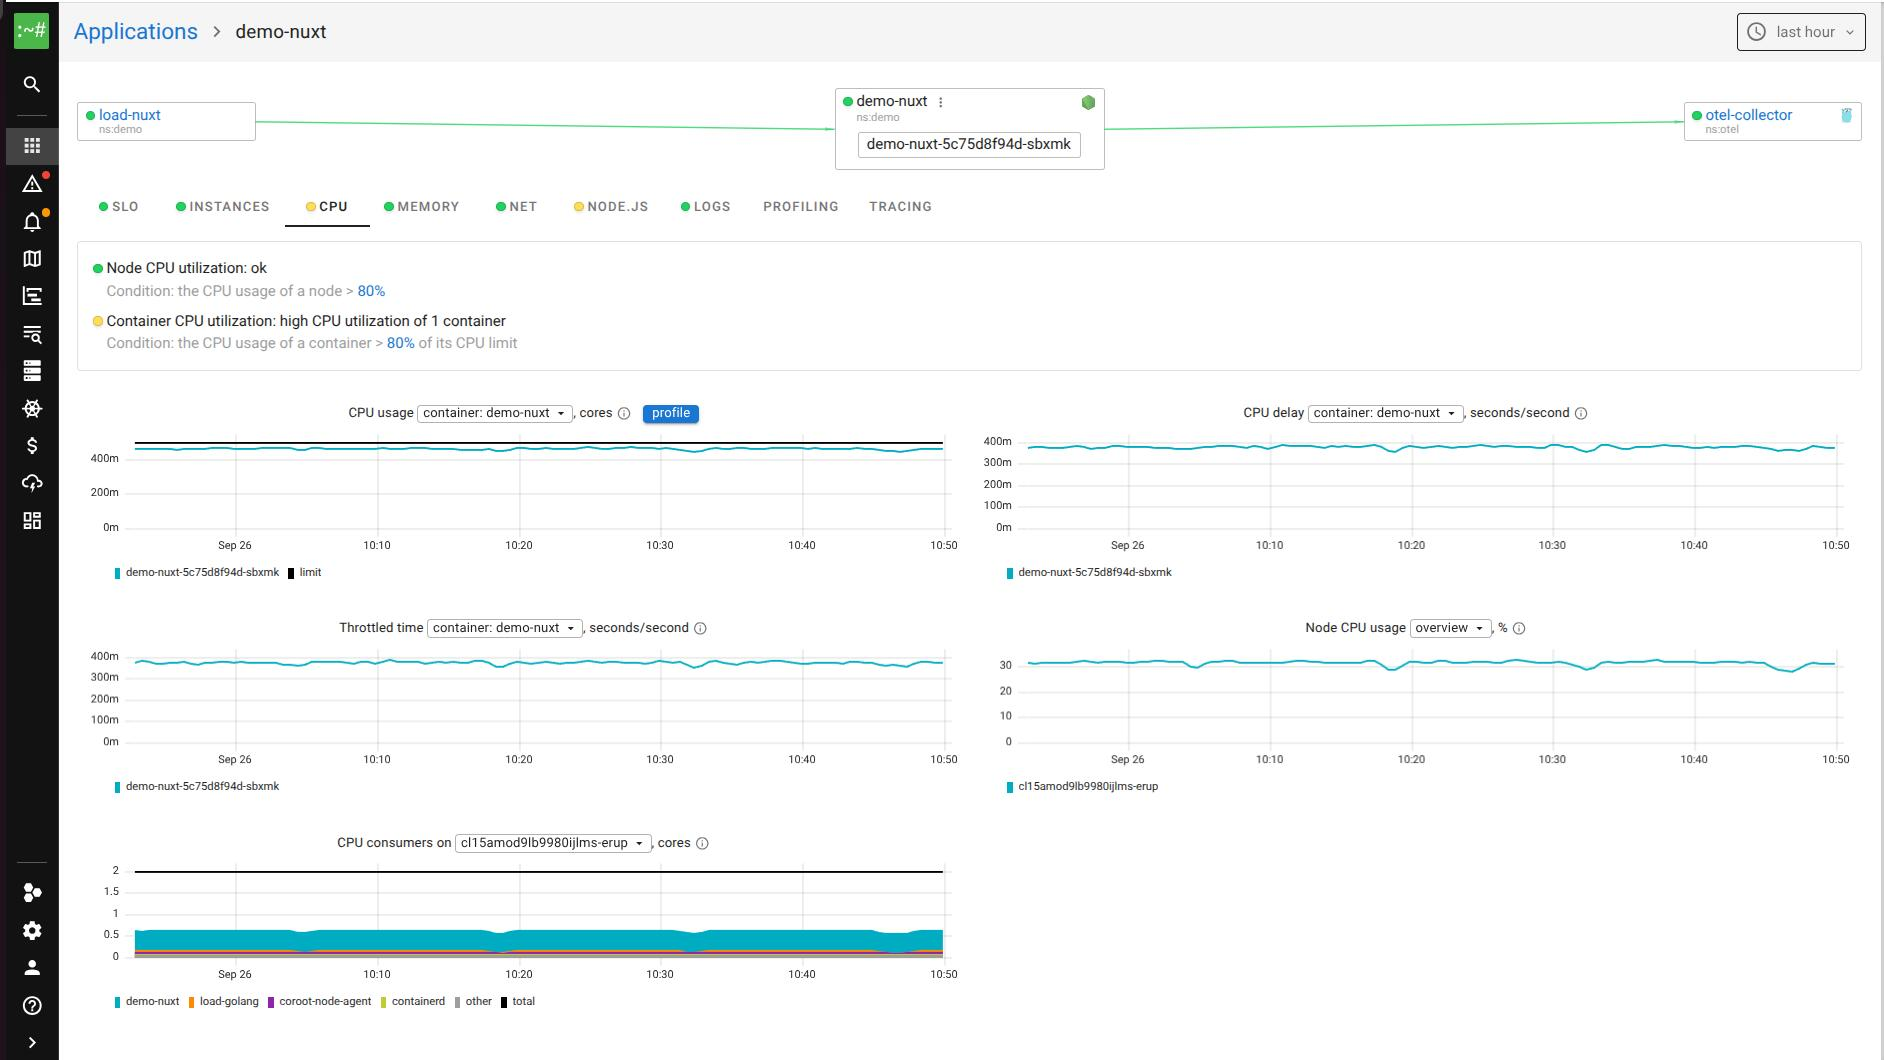
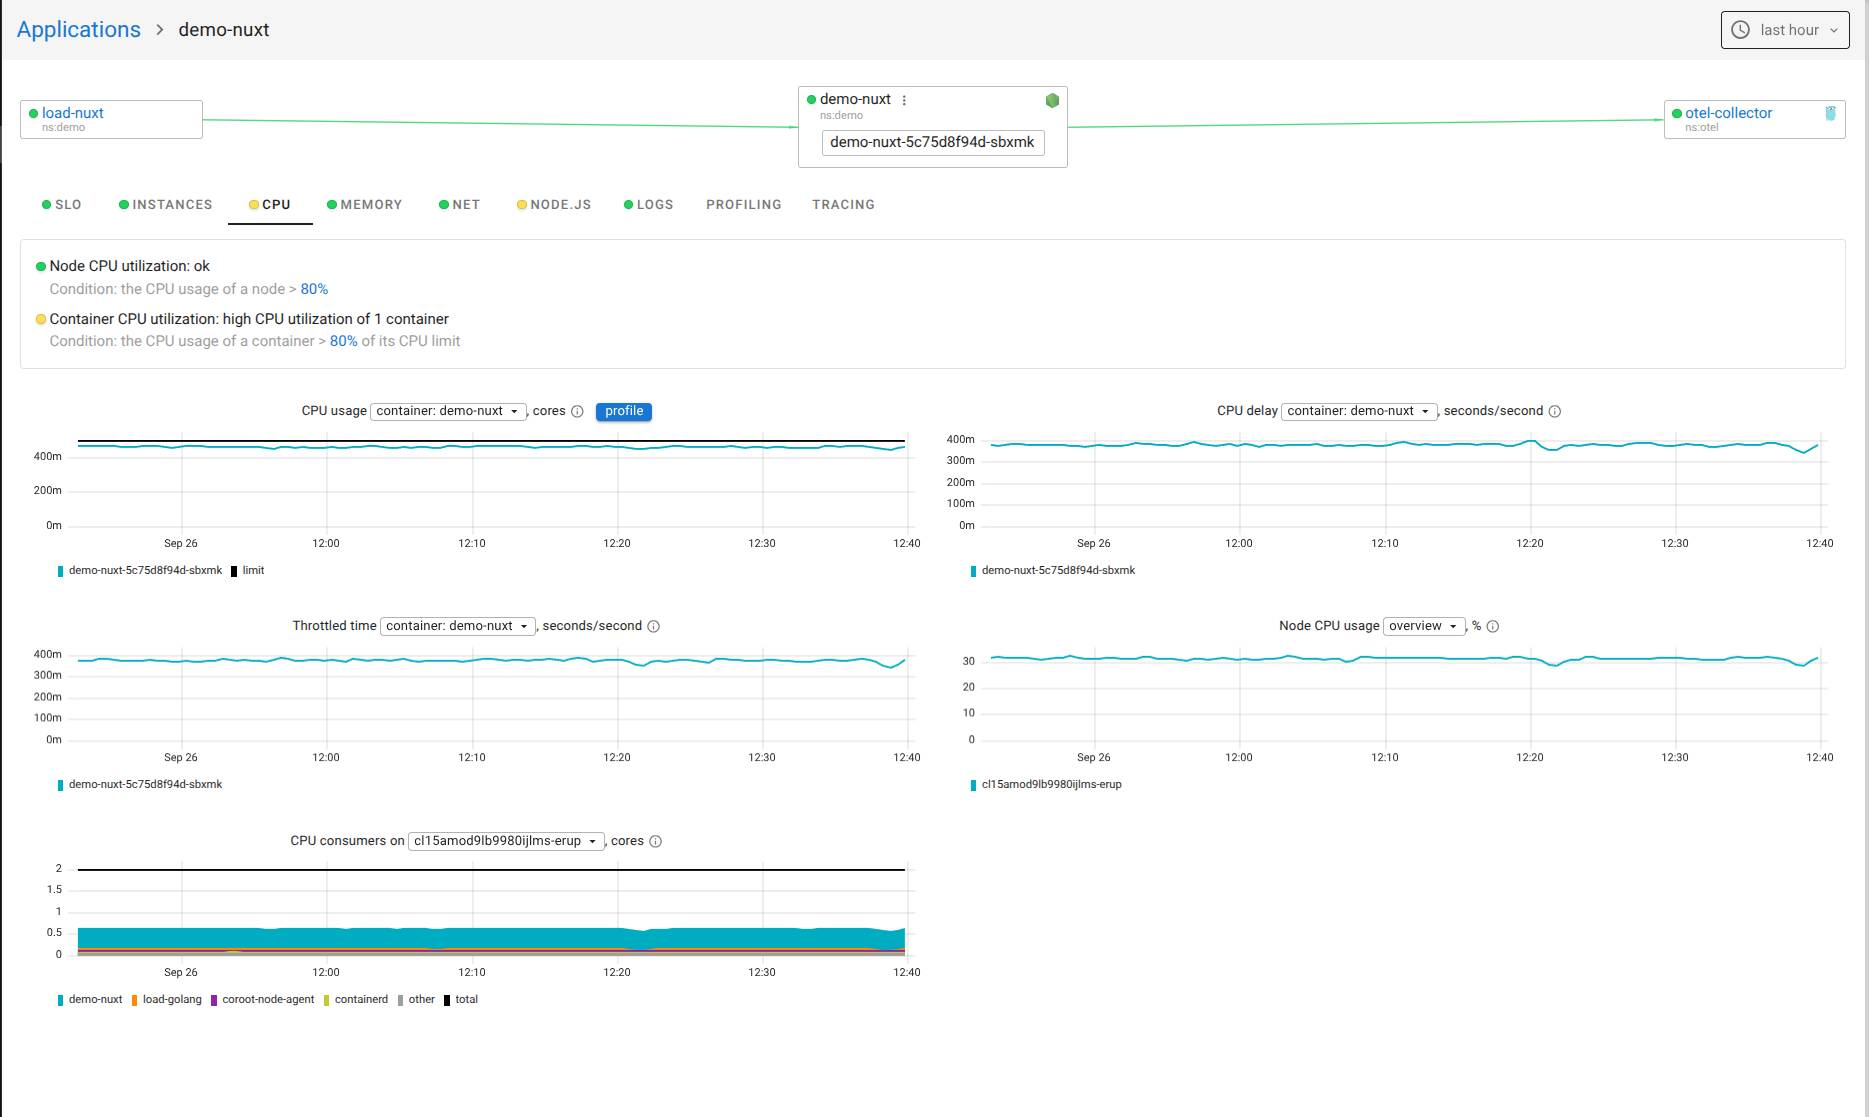
docs: конвертация скриншотов Nuxt PNG в JPG

diff --git a/README.md b/README.md
@@ -236,9 +236,9 @@ nuxt:
 
 На вкладке **Tracing** у `demo-nuxt` — server-span на каждый `/api/cpu` и вложенный span `fib`. HeatMap показывает распределение запросов по времени, статусам и длительности. Свободной фильтрации трасс по атрибутам нет: ось X задаёт `tsRange`, ось Y — `durRange`, статус — метка `err`. «Show error traces» фильтрует по `StatusCode='STATUS_CODE_ERROR'`, «Show latency SLO violations» — по `Duration >= SLO objective`, селектор `sources` переключает OpenTelemetry/eBPF. По выделенной области Coroot найдёт конкретные спаны; в сравнении подсветит замедлившиеся операции; по кастомным атрибутам — чем аномальные запросы отличаются от остальных. От аномалии CPU — во флеймграф (`fib` благодаря perf-map), из медленного span'а — в логи и профили.
 
-![Флеймграф CPU demo-nuxt](screenshots/nuxt-profiling1.jpg)
+![Tracing demo-nuxt](screenshots/nuxt-tracing.jpg)
 
-![Comparison флеймграфа demo-nuxt](screenshots/nuxt-profiling2.jpg)
+![Флеймграф CPU demo-nuxt](screenshots/nuxt-profiling.jpg)
 
 Алерты наружу — **Project Settings → Integrations**: Slack, Microsoft Teams, PagerDuty, Opsgenie, webhook. Маршрутизация по [категориям приложений](https://docs.coroot.com/configuration/application-categories#notification-routing) и типам событий: **Incidents**, **Deployments**, **Alerts**. Источники алертов: инспекции, новые паттерны в логах, Kubernetes-события, кастомный PromQL. Для этого демо хватит инспекции по CPU — без правил вручную.
 
